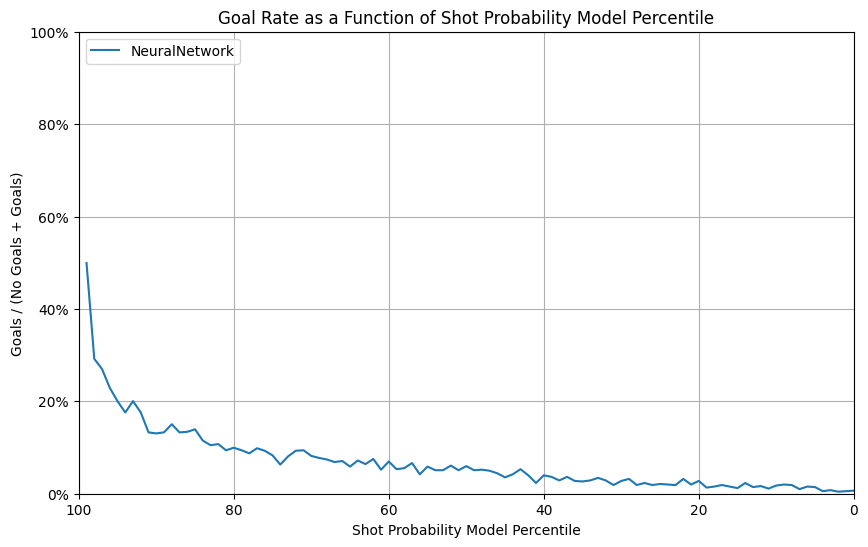
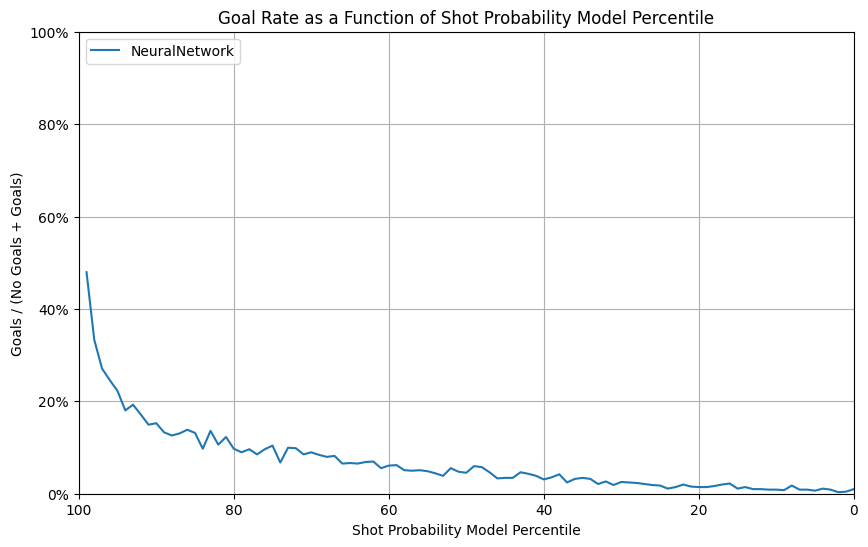
Completed Section 6

Changed region(s): [[0.1555, 0.7459, 0.9643, 0.9013], [0.0933, 0.5594, 0.1244, 0.6837], [0.1244, 0.6837, 0.1555, 0.7459]]

diff --git a/_posts/2024-11-13-milestone-2.md b/_posts/2024-11-13-milestone-2.md
@@ -480,11 +480,11 @@ We can see in the graphs above that learning rates that are too high are clearly
 
 
 ### 6.5. Number of epcohs  
-Finally, we just wanted to "push" our previous selections with a training over much more epochs. Instead of using 10 epochs, we trained our model with 100 epochs, and verified the evoluation of the results (Loss, ROC AUC) during the training.
+Finally, we just wanted to "push" our previous selections with a training over much more epochs. Instead of using 10 epochs, we trained our model with 100 epochs, and verified the evolution of the results (Loss, ROC AUC) during the training.
 
-[Here's the comparison in W&B](https://wandb.ai/IFT6758-2024-B04/ms2-q6-best-shot-epochs?nw=nwusersergemalo)
+[Here's the comparison in W&B](https://wandb.ai/IFT6758-2024-B04/ms2-q6-best-shot-epochs/runs/we5ru1re?nw=nwusersergemalo)
 
-
+As we can see in the results, the loss and the ROC AUC have reached a limit after **40 epochs**. We will use this value for section 7.
 
 
 ### Final Result - Our best model  
@@ -494,7 +494,7 @@ Finally, we just wanted to "push" our previous selections with a training over m
 - Training performed on mini batches of 32 data points  
 - Loss function Binary Cross-Entropy Loss (BCELoss in PyTorch)  
 - Adam optimizer with a learning rate of 0.0005  
-- Perform training with 10 epochs  
+- Perform training with 100 epochs  
 
 [Here's the run result in W&B](https://wandb.ai/IFT6758-2024-B04/ms2-q6-best-shot-epochs/runs/gzvusrjr?nw=nwusersergemalo)
 <table>
@@ -516,38 +516,44 @@ Finally, we just wanted to "push" our previous selections with a training over m
 
 
 ## 7. Evaluate on test set
-For each the following questions, you will need to evaluate a total of five models:
-- The three logistic regression models you saved in part 3
-- The best XGBoost model you saved in part 5
-- Your best overall model that you saved in part 6
-and produce the same four figures as in part 3 (single figure for each, with 5 curves):
-- ROC/AUC
-- Goal rate vs probability percentile
-- Cumulative proportion of goals vs probability percentile
-- Reliability curve
-
-Note that you’re more than welcome to evaluate more than the five specified above if you’d like! We only require that you evaluate the 5 specified models in order to get full marks. For the two questions below we expect 3-5 sentences each, but you’re welcome to go over this if you have interesting things to discuss.
-
-1. Test your 5 models on the untouched 2020/21 regular season dataset. In your blogpost, include the four figures described above. Discuss your results and observations on the test set. Do your models perform as well on the test set as you did on your validation set when building your models? Do any models perform better or worse than you expected?
-
-2. Test your 5 models on the untouched 2020/21 playoff games. In your blogpost, include the four figures described above. Discuss your results and observations on this test set. Are there any differences to the regular season test set or do you get similar ‘generalization’ performance?
-   Group Evaluations
 
 
+### 7.1 - Compare models with Test set Regular Season 2020-2021
 
-### Result for for model of part 6
+
+#### Result for for model of part 6
 [Neural Network test results on W&B]()
 <table>
   <thead>
   </thead>
   <tbody>
     <tr>
-      <td><img src="/assets/images/ms2_q7_model6_roc.png" alt="Neural Network Test set ROC"></td>
-      <td><img src="/assets/images/ms2_q7_model6_gr.png" alt="Neural Network Test set Goal Rate"></td>
+      <td><img src="/assets/images/ms2_q7_1_model6_roc.png" alt="Neural Network Test set ROC"></td>
+      <td><img src="/assets/images/ms2_q7_1_model6_gr.png" alt="Neural Network Test set Goal Rate"></td>
     </tr>
     <tr>
-      <td><img src="/assets/images/ms2_q7_model6_prop.png" alt="Neural Network Test set Cumulative proprotion"></td>
-      <td><img src="/assets/images/ms2_q7_model6_calib.png" alt="Neural Network Test set Calibration plot"></td>
+      <td><img src="/assets/images/ms2_q7_1_model6_prop.png" alt="Neural Network Test set Cumulative proprotion"></td>
+      <td><img src="/assets/images/ms2_q7_1_model6_calib.png" alt="Neural Network Test set Calibration plot"></td>
+    </tr>
+  </tbody>
+</table>
+
+
+### 7.2 - Compare models with Test set Playoff Season 2020-2021
+
+#### Result for for model of part 6
+[Neural Network test results on W&B]()
+<table>
+  <thead>
+  </thead>
+  <tbody>
+    <tr>
+      <td><img src="/assets/images/ms2_q7_2_model6_roc.png" alt="Neural Network Test set ROC"></td>
+      <td><img src="/assets/images/ms2_q7_2_model6_gr.png" alt="Neural Network Test set Goal Rate"></td>
+    </tr>
+    <tr>
+      <td><img src="/assets/images/ms2_q7_2_model6_prop.png" alt="Neural Network Test set Cumulative proprotion"></td>
+      <td><img src="/assets/images/ms2_q7_2_model6_calib.png" alt="Neural Network Test set Calibration plot"></td>
     </tr>
   </tbody>
 </table>
